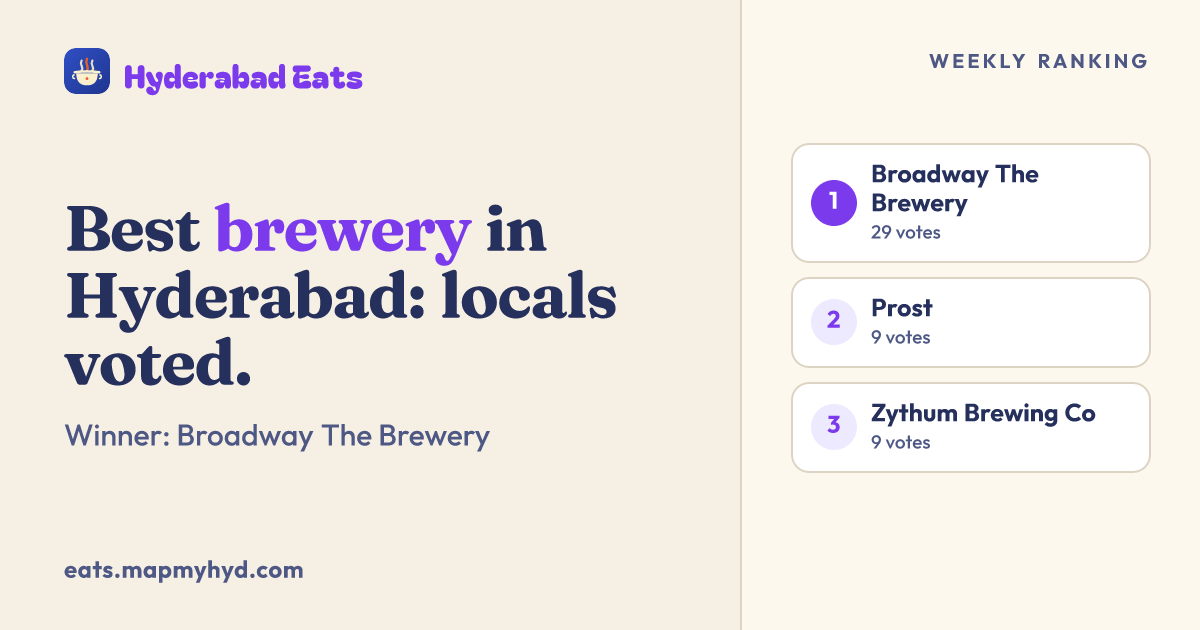
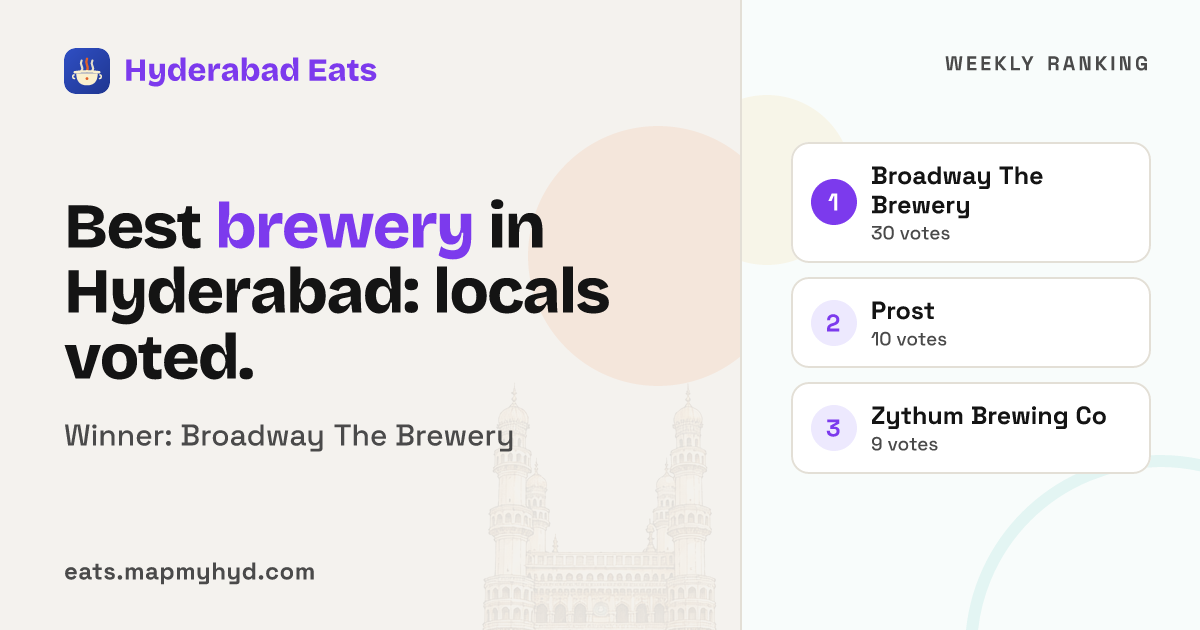
Use branded cards for ranking shares

diff --git a/app/rankings/[slug]/page.jsx b/app/rankings/[slug]/page.jsx
@@ -44,35 +44,9 @@ export async function generateMetadata({ params }) {
   const meta = rankingMeta(fake, editorial);
   const path = `/rankings/${params.slug}`;
 
-  // Find the winning/leader spot or top contender with a photo
   const voteRows = (fake.results || []).filter((r) => (r.count || 0) > 0);
-  const leader = fake.winnerId
-    ? (fake.results || []).find((r) => r.spotId === fake.winnerId)
-    : voteRows[0] || null;
-
-  const candidateIds = [
-    leader?.spotId,
-    ...voteRows.map((r) => r.spotId),
-    ...editorial.map((r) => r.spotId),
-    ...(fake.results || []).map((r) => r.spotId),
-  ].filter(Boolean);
-
-  let photoUrl = null;
-  let photoSpotName = leader?.name || null;
-  for (const cid of candidateIds) {
-    if (hasSpotPhoto(cid)) {
-      photoUrl = spotPhotoUrl(cid);
-      if (!photoSpotName) {
-        const found = (fake.results || []).find((r) => r.spotId === cid) || editorial.find((r) => r.spotId === cid);
-        photoSpotName = found?.name || null;
-      }
-      break;
-    }
-  }
-
-  const ogImagesList = photoUrl
-    ? [{ url: photoUrl, width: 800, height: 600, alt: `${photoSpotName || meta.title} | Hyderabad Eats`, type: "image/jpeg" }]
-    : ogImages(meta.title, meta.description, `/rankings/${params.slug}`);
+  // Ranking shares use the branded ranking card, not a photo from one venue.
+  const shareImages = ogImages(meta.title, meta.description, path);
 
   return {
     title: meta.title,
@@ -82,13 +56,13 @@ export async function generateMetadata({ params }) {
       description: meta.description,
       url: `${getSiteUrl()}${path}`,
       type: "article",
-      images: ogImagesList,
+      images: shareImages,
     },
     twitter: {
       card: "summary_large_image",
       title: meta.title,
       description: meta.description,
-      images: photoUrl ? [photoUrl] : ogImages(meta.title, meta.description, `/rankings/${params.slug}`).map((i) => i.url),
+      images: shareImages.map((image) => image.url),
     },
     alternates: { canonical: `${getSiteUrl()}${path}` },
   };
